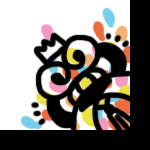
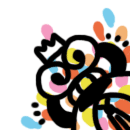
Polish first page

diff --git a/App.js b/App.js
@@ -1,5 +1,6 @@
 import React from 'react';
-import { StatusBar, StyleSheet, Text, View, NativeModules, Platform } from 'react-native'
+import { StatusBar, StyleSheet, Text, View, NativeModules, Platform, Image, Dimensions } from 'react-native'
+import Border from './components/border'
 import Logo from './components/logo'
 import PlayButton from './components/play_button'
 import GalleryPreview from './components/gallery_preview'
@@ -12,21 +13,42 @@ export default class App extends React.Component {
   render() {
     return (
       <View style={styles.container}>
-        <Logo />
-        <PlayButton action={() => { console.warn('Button pressed.') }} />
-        <GalleryPreview />
+        <Image
+          resizeMode={'stretch'}
+          style={styles.background}
+          source={require('./assets/img/background.jpg')}
+        />
+        <Border style={styles.border}>
+          <Logo style={styles.logo}/>
+          <PlayButton action={() => { console.warn('Button pressed.') }} />
+          <GalleryPreview />
+        </Border>
       </View>
     );
   }
 }
 
+const win = Dimensions.get('window');
 const styles = StyleSheet.create({
-  container: {
+  background: {
+    flex: 1,
+    backgroundColor: '#f7f1cc',
+    position: 'absolute'
+  },
+  logo: {
+    marginTop: 20,
+    width: win.width - 10
+  },
+  border: {
+    flex: 1,
     flex: 1,
     flexDirection: 'column',
     justifyContent: 'space-between',
+    alignItems: 'center'
+  },
+  container: {
+    flex: 1,
     backgroundColor: '#fff',
-    alignItems: 'center',
-    paddingTop: STATUSBAR_HEIGHT,
+    paddingTop: STATUSBAR_HEIGHT
   },
 });

diff --git a/components/border.js b/components/border.js
@@ -1,0 +1,29 @@
+import React, { Component } from 'react';
+import { StyleSheet, Dimensions, Image, View } from 'react-native';
+
+class Border extends Component {
+  render() {
+    return (
+      <View style={{flex: 1}}>
+        <Image style={styles.corner_top_left} source={require('../assets/img/corner-top-left.png')} />
+        <Image style={styles.corner_top_right} source={require('../assets/img/corner-top-right.png')} />
+        <Image style={styles.corner_bot_left} source={require('../assets/img/corner-bot-left.png')} />
+        <Image style={styles.corner_bot_right} source={require('../assets/img/corner-bot-right.png')} />
+
+        <View style={this.props.style}>
+          {this.props.children}
+        </View>
+      </View>
+    )
+  }
+}
+
+const win = Dimensions.get('window');
+const styles = StyleSheet.create({
+  corner_top_left: { zIndex: 10, position: 'absolute', top: 0, left: 0, height: 50, width: 50},
+  corner_top_right: { zIndex: 10, position: 'absolute', top: 0, right: 0, height: 50, width: 50 },
+  corner_bot_left: { zIndex: 10, position: 'absolute', bottom: 0, left: 0, height: 50, width: 50 },
+  corner_bot_right: { zIndex: 10, position: 'absolute', bottom: 0, right: 0, height: 50, width: 50 },
+});
+
+export default Border;

diff --git a/components/logo.js b/components/logo.js
@@ -1,12 +1,12 @@
 import React, { Component } from 'react';
-import { StyleSheet, Dimensions, Image, View } from 'react-native';
+import { Image, View } from 'react-native';
 
 class Logo extends Component {
   render() {
     return (
       <View>
         <Image
-          style={styles.image}
+          style={this.props.style}
           resizeMode={'contain'}
           source={require('../assets/img/logo.png')}
         />
@@ -14,12 +14,5 @@ class Logo extends Component {
     );
   }
 }
-
-const win = Dimensions.get('window');
-const styles = StyleSheet.create({
-  image: {
-    width: win.width - 10,
-  }
-});
 
 export default Logo;

diff --git a/components/play_button.js b/components/play_button.js
@@ -8,7 +8,7 @@ class PlayButton extends Component {
       <View>
         <MaterialCommunityIcons.Button
         name="lightbulb-on-outline"
-        backgroundColor="#efec4a"
+        backgroundColor="#f29bc1"
         onPress={() => { this.props.action() }}>
           <Text style={styles.textButton} >Get inspired!</Text>
         </MaterialCommunityIcons.Button>
